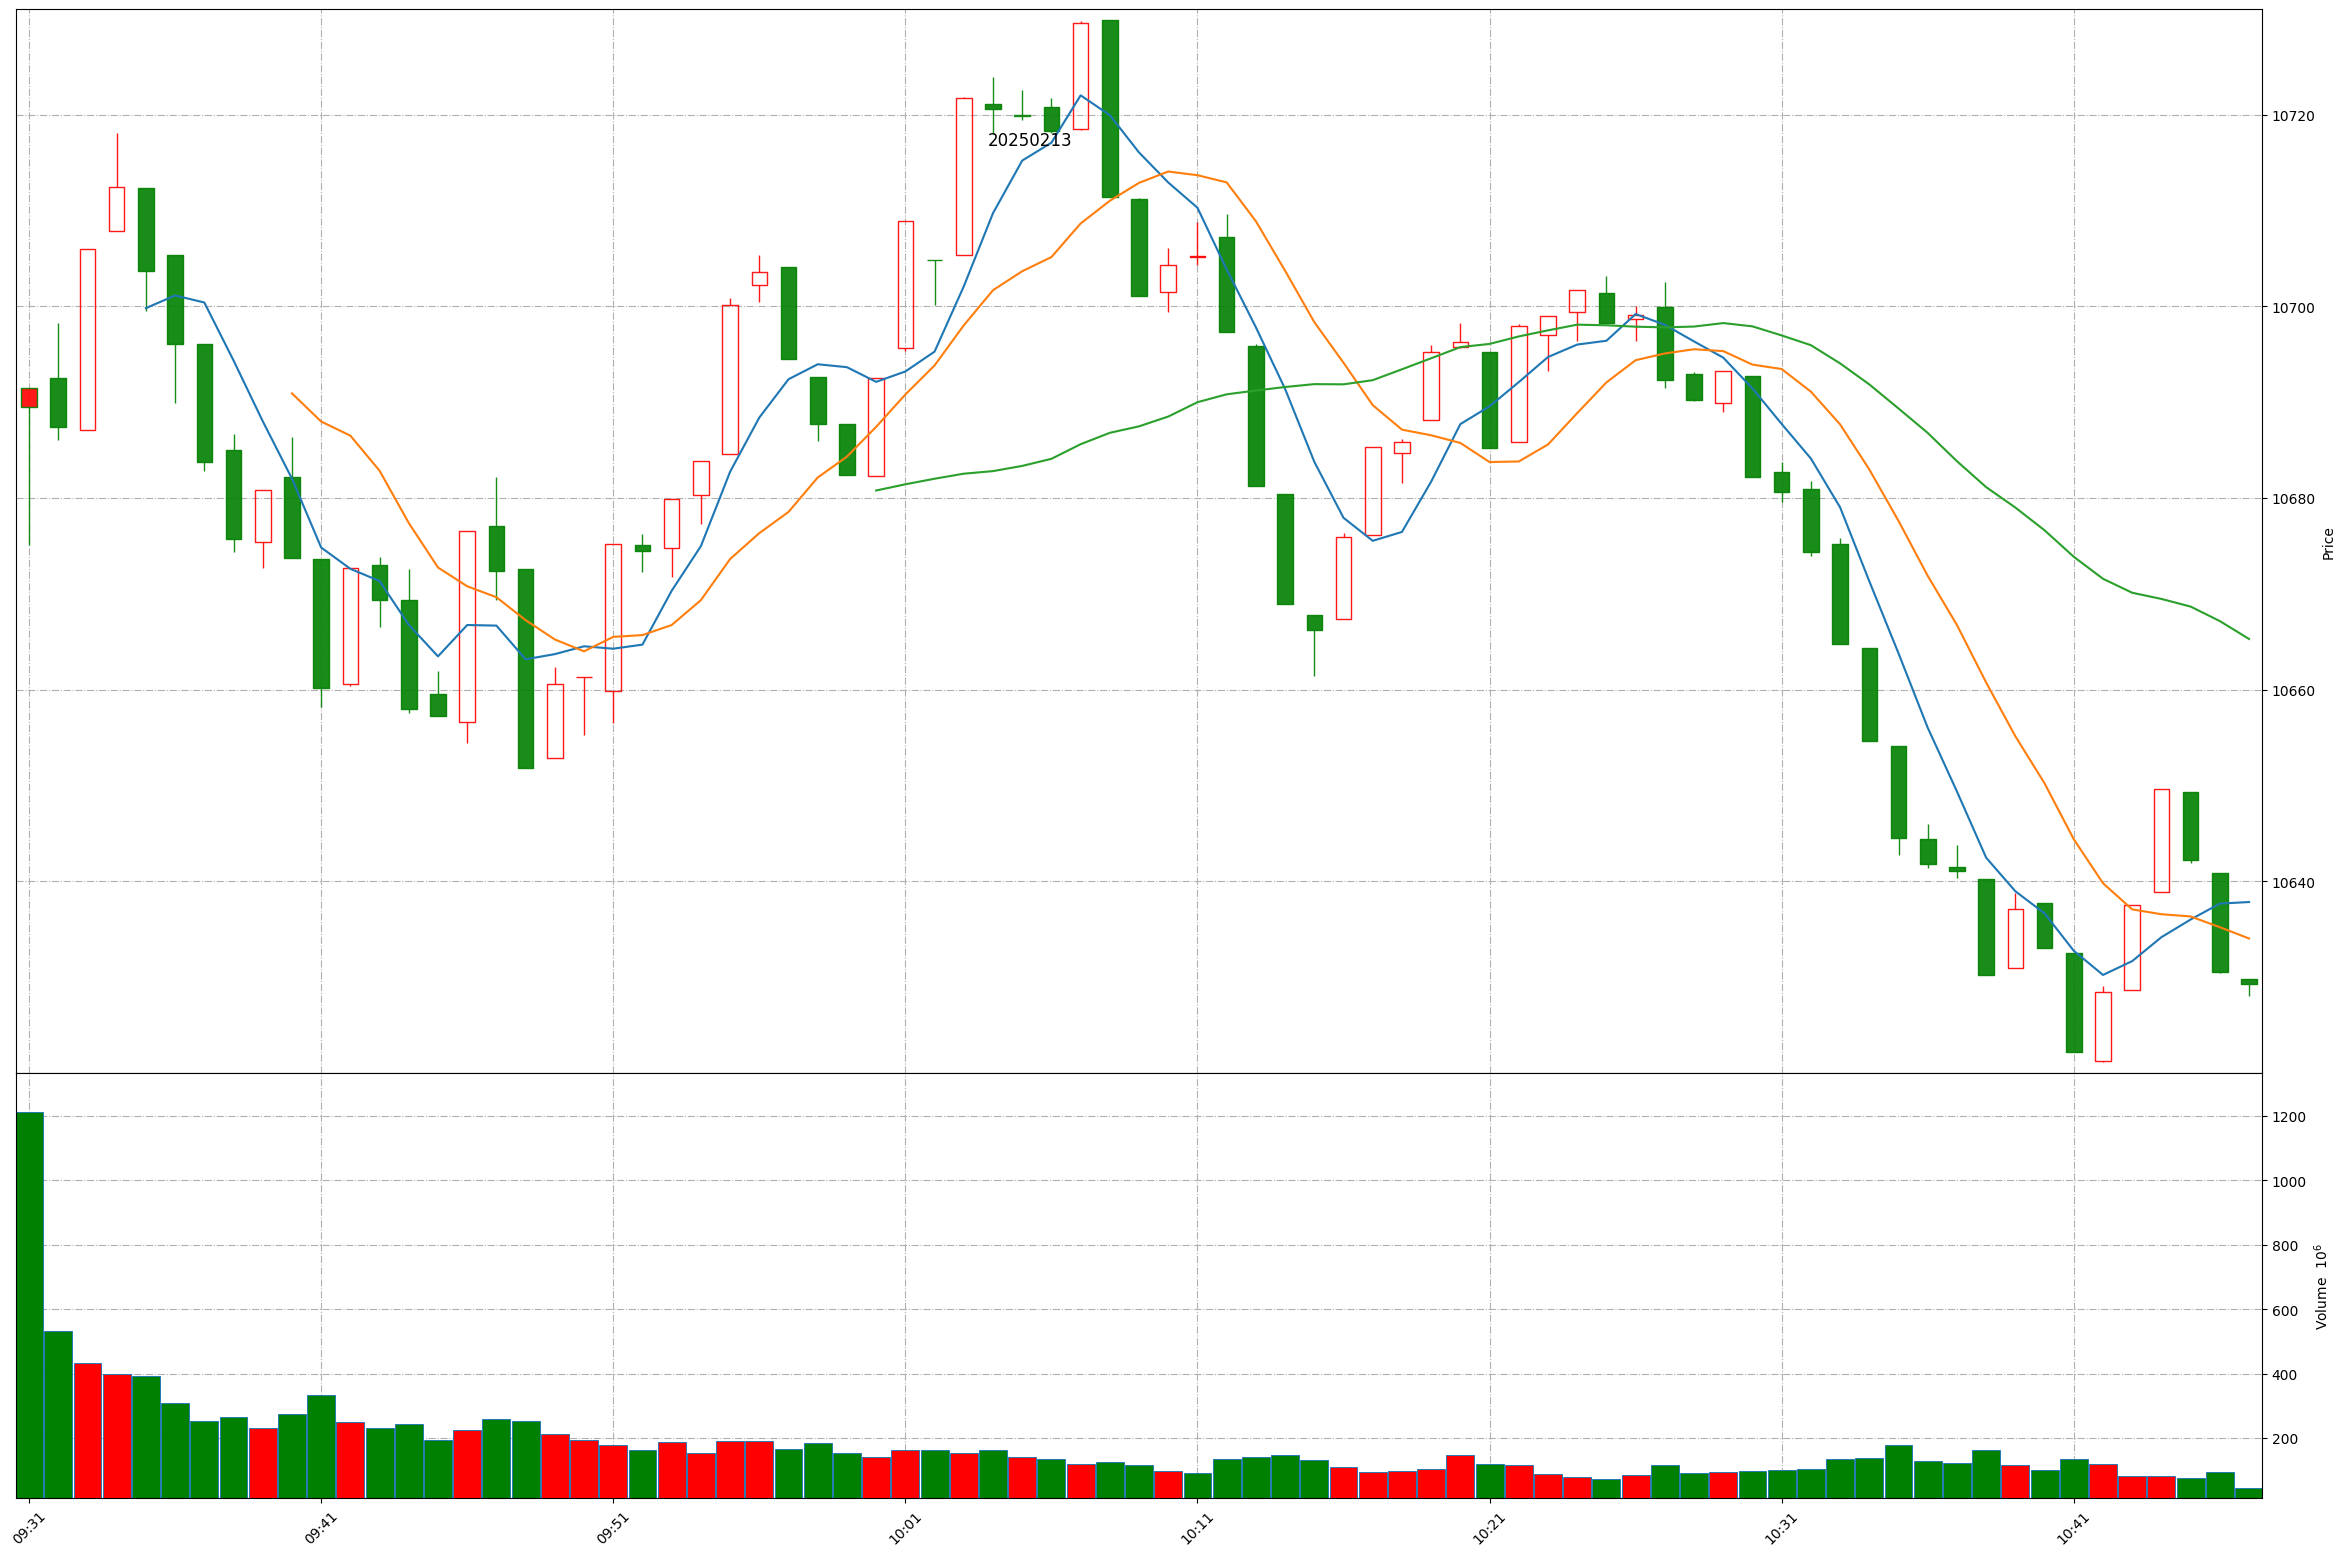
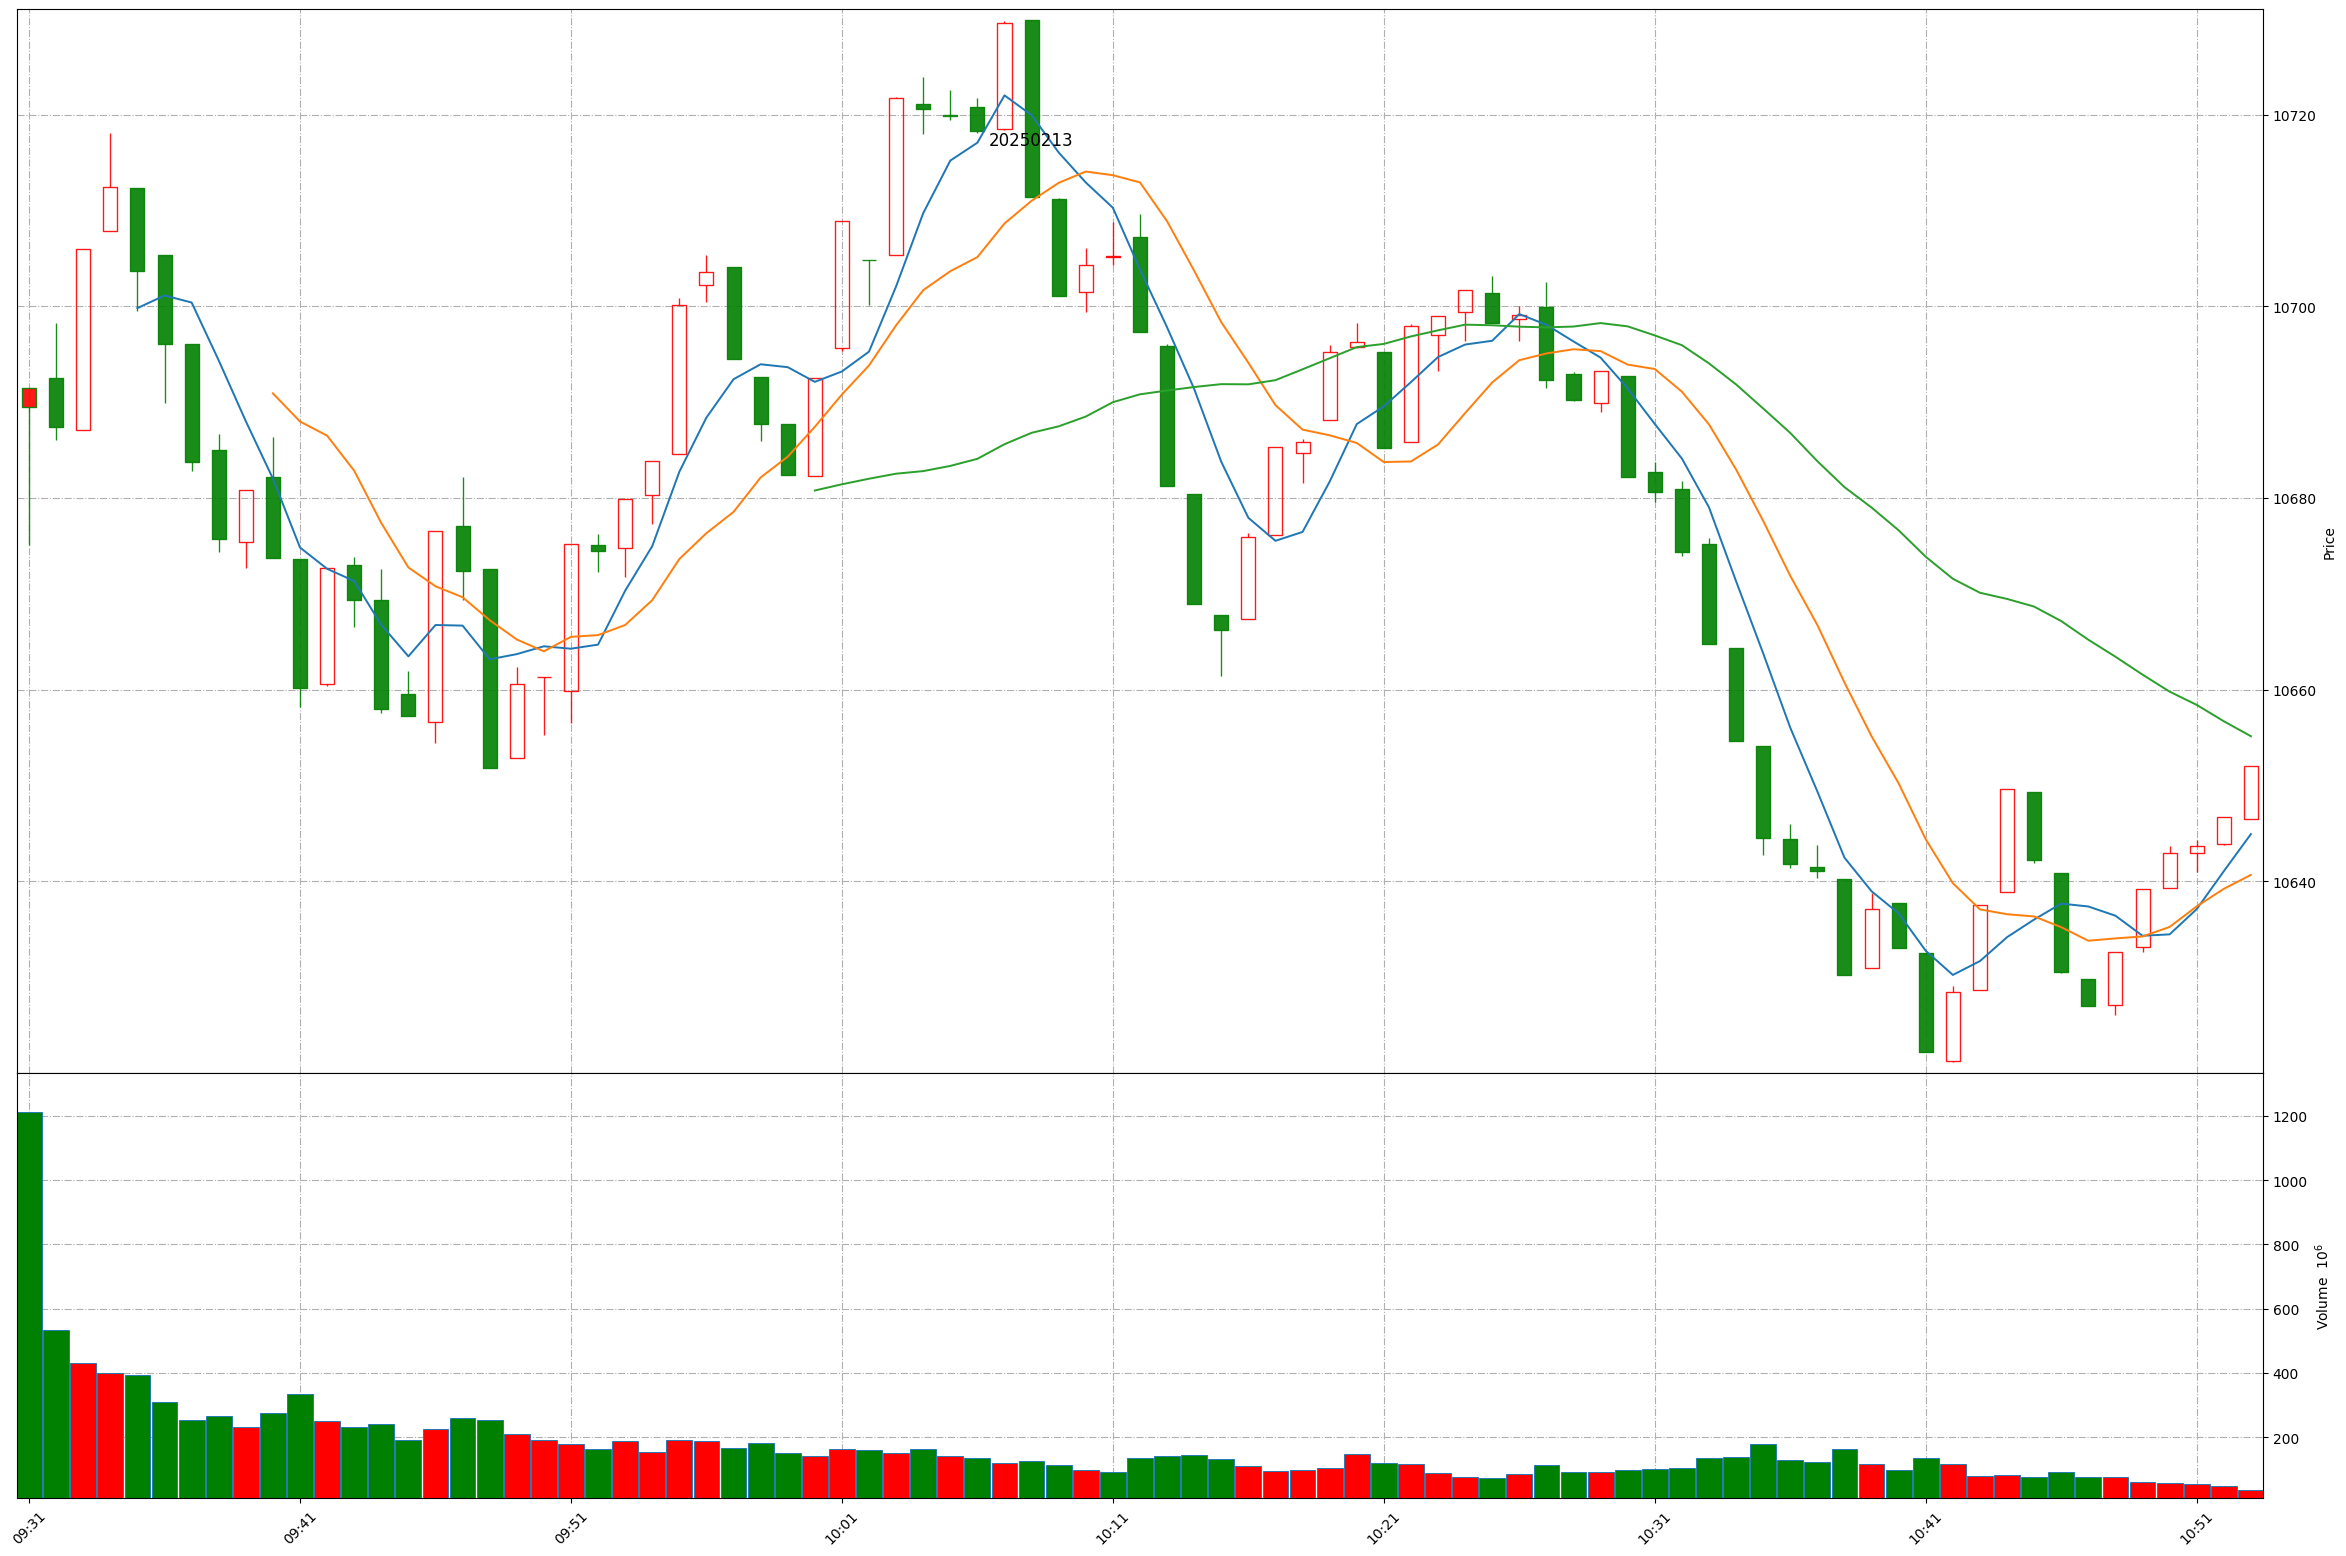
Github action update at 2025-02-13 10:52:43.

Changed region(s): [[0.0, 0.0, 0.965, 0.6787], [0.0, 0.8638, 0.965, 0.9871]]

diff --git a/README.md b/README.md
@@ -1,11 +1,11 @@
 
 # Daily-A-share-market-quotes 每日 A 股指数（5min 更新）- 20250213
 
-### 上证指数 20250213 10:46
+### 上证指数 20250213 10:52
 ![](./fig/2025/2/20250213-sh000001.png)
 
-### 深证成指 20250213 10:46
+### 深证成指 20250213 10:52
 ![](./fig/2025/2/20250213-sz399001.png)
 
-### 北证50 20250213 10:46
+### 北证50 20250213 10:52
 ![](./fig/2025/2/20250213-bj899050.png)
